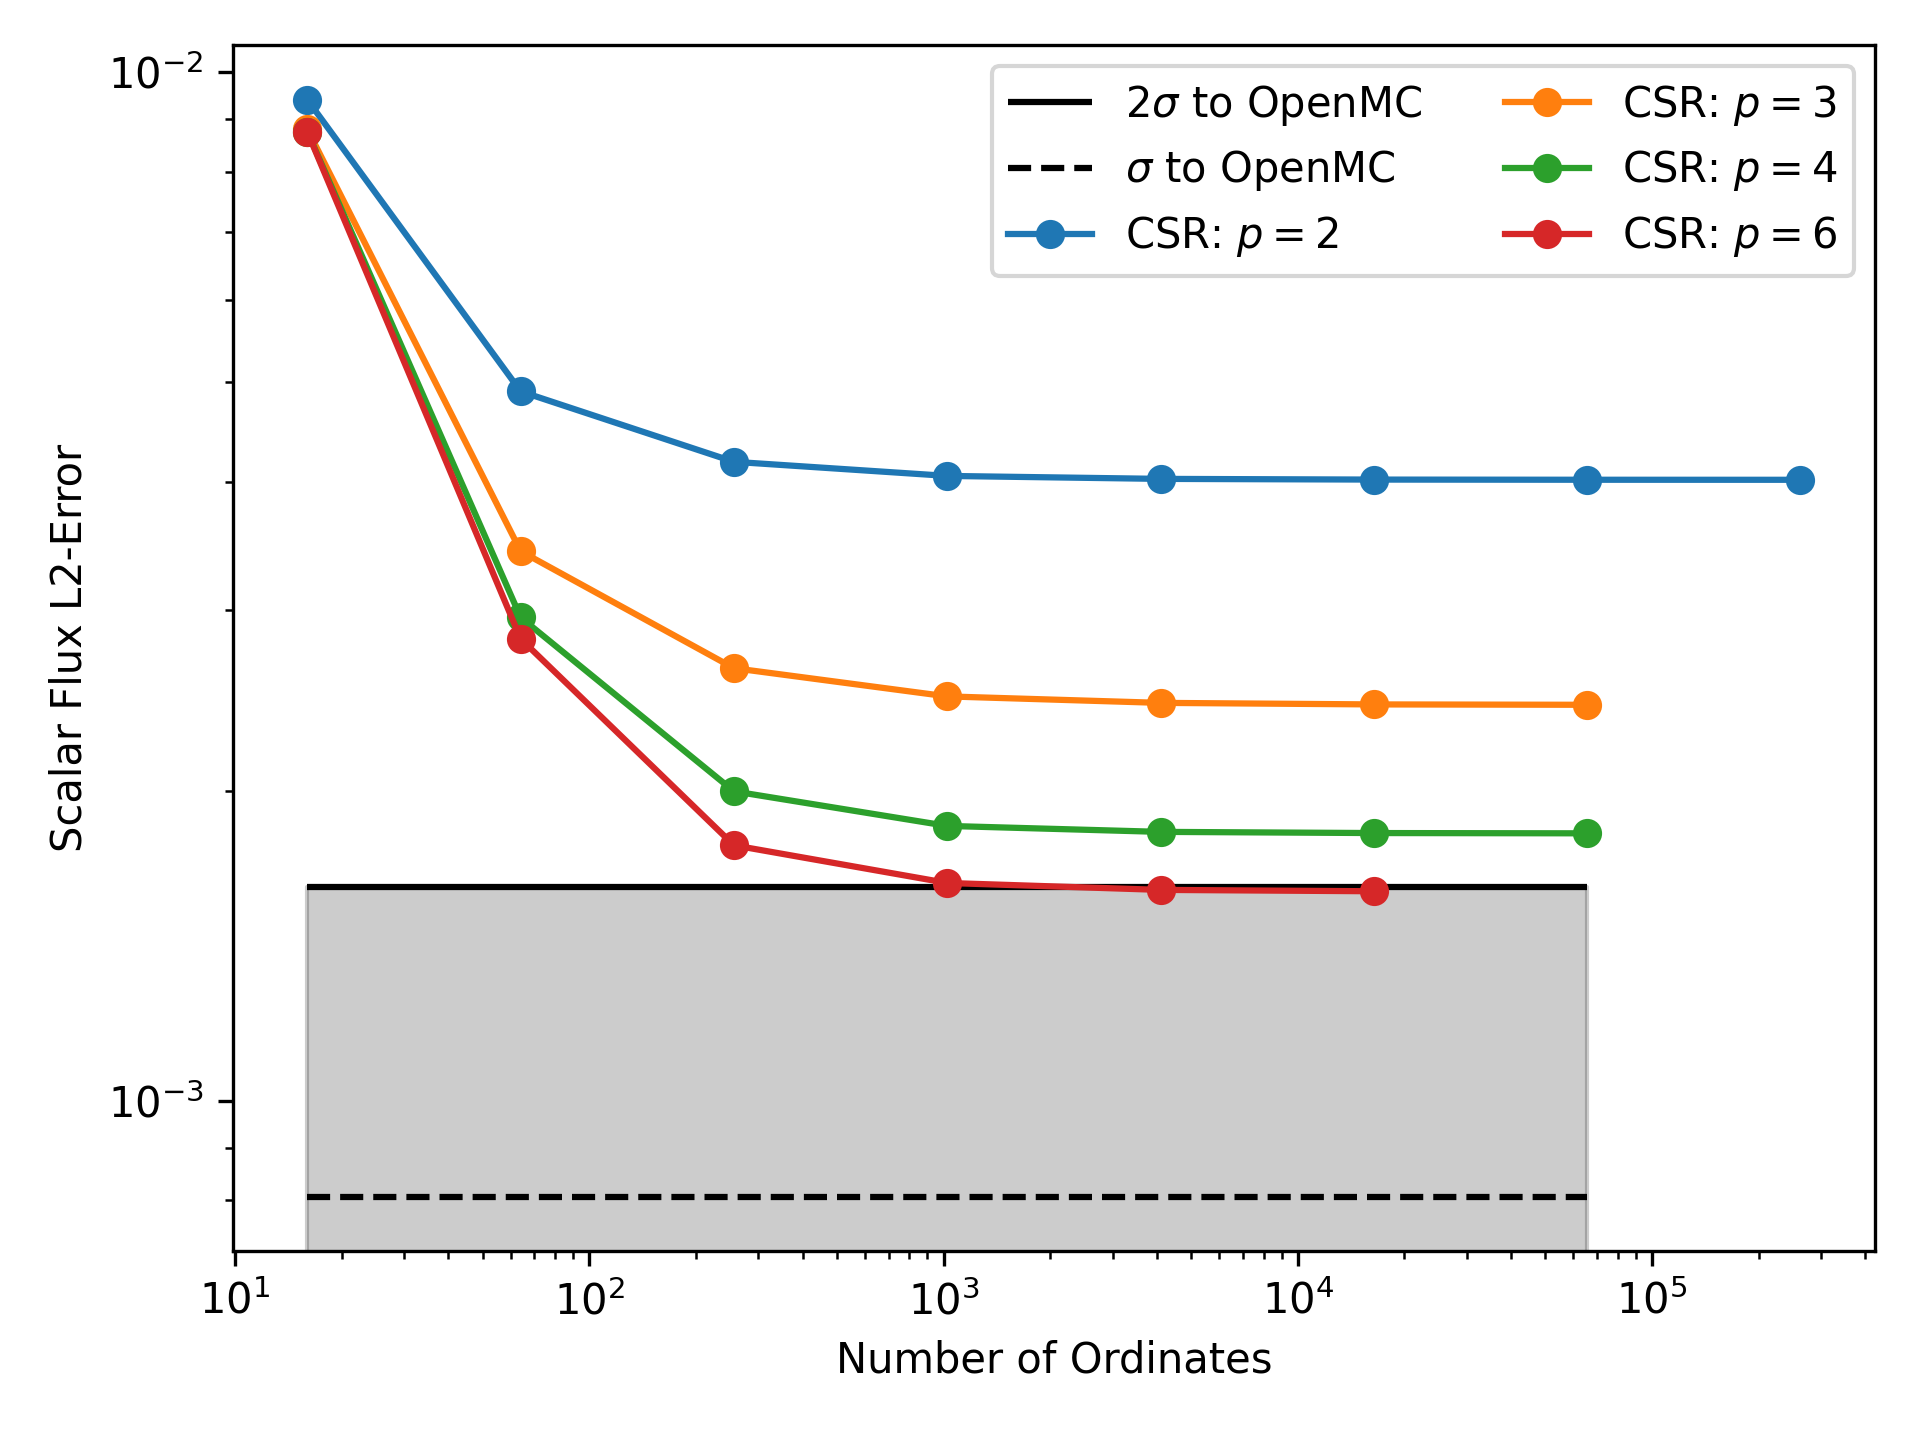
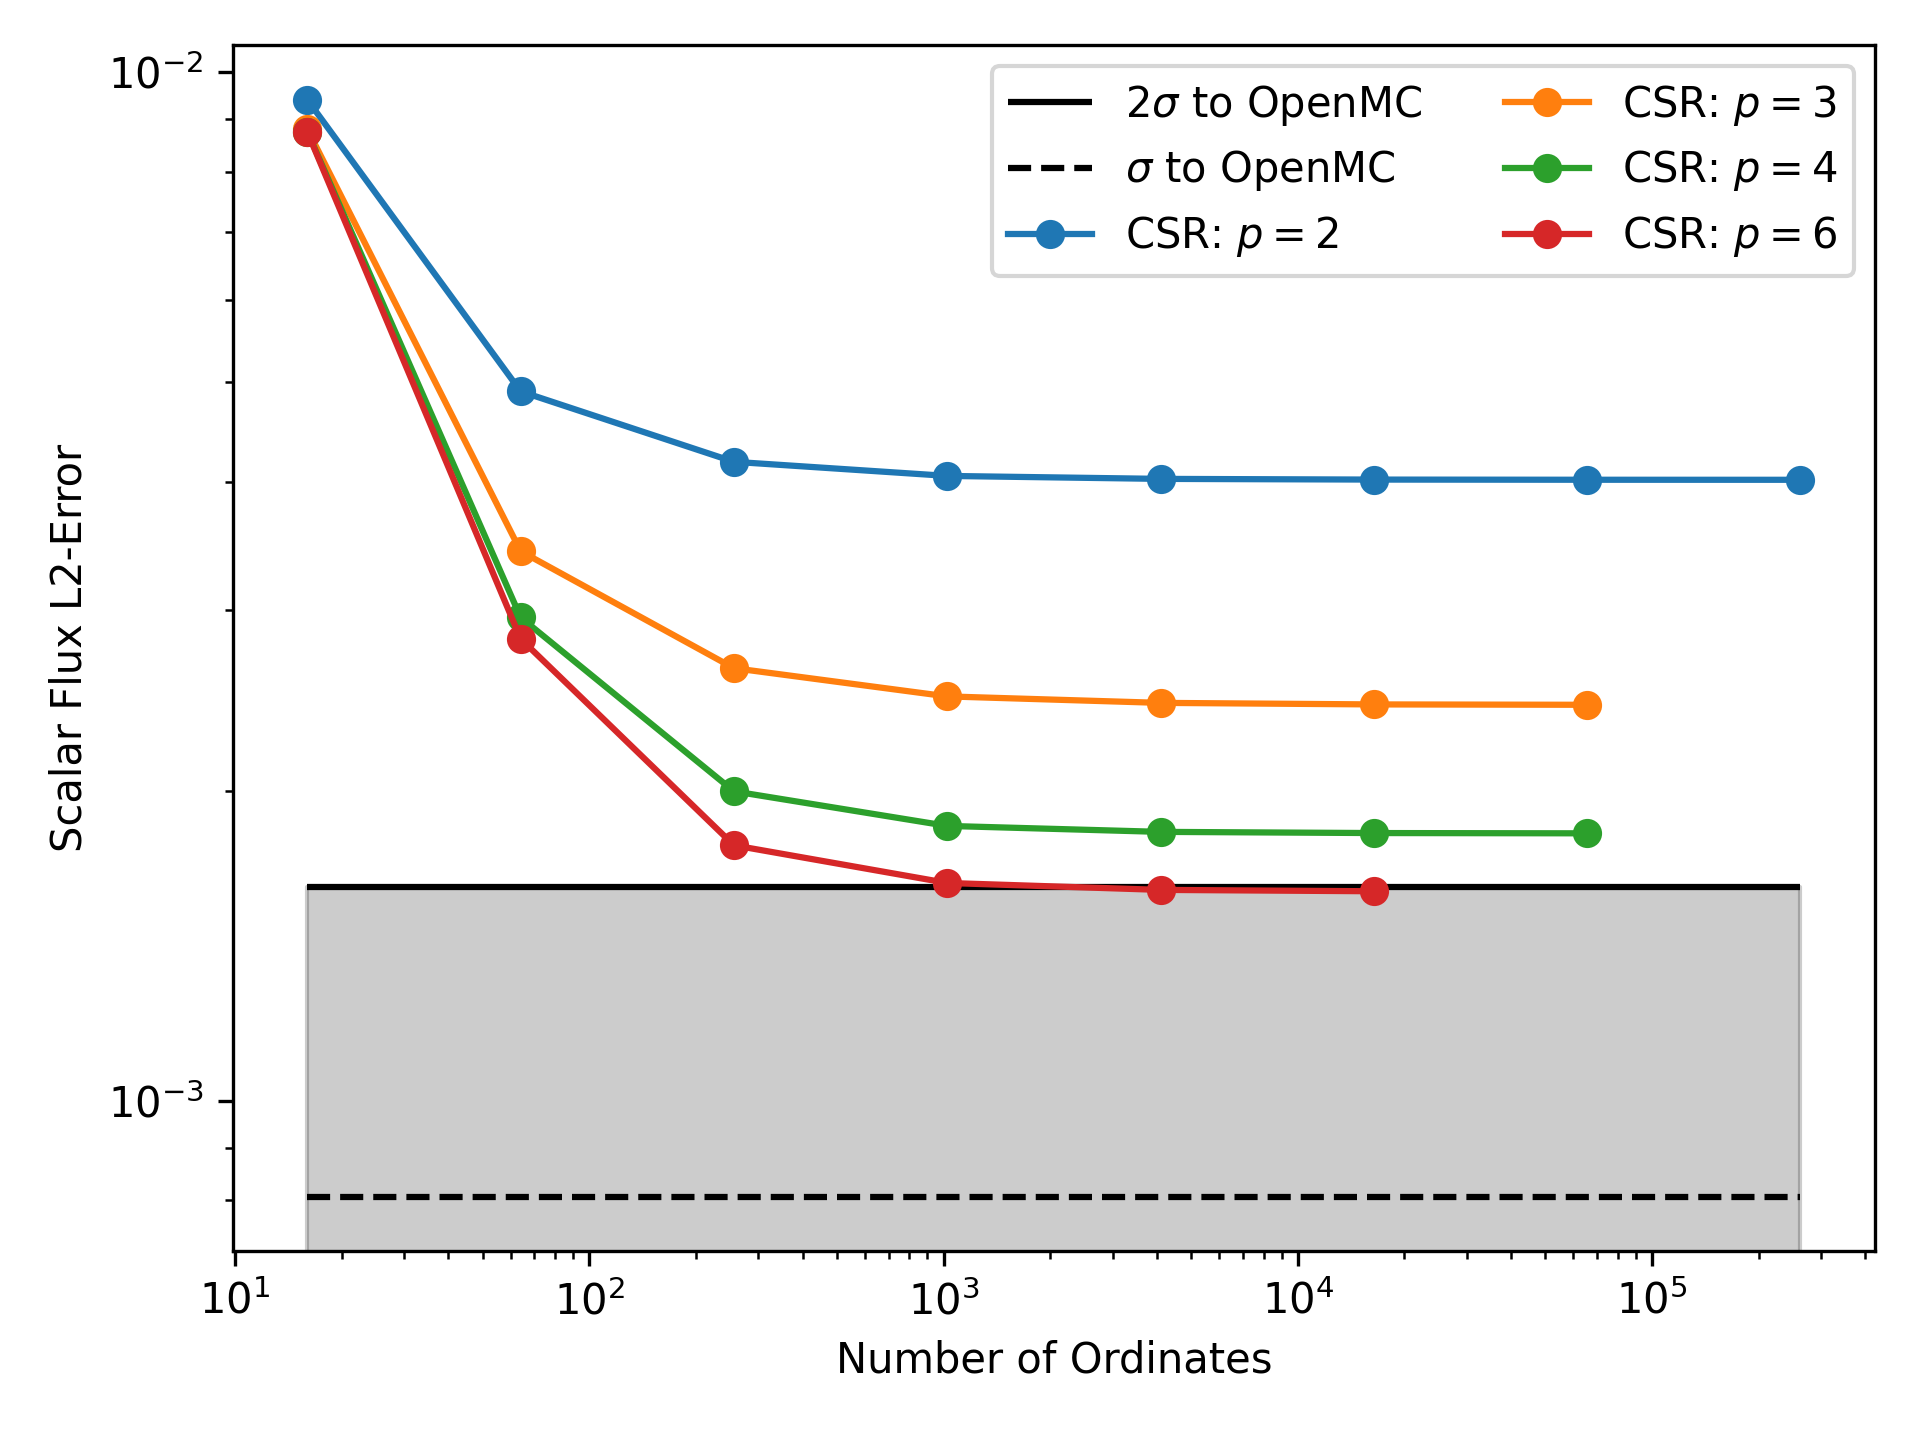
minor fix to square results

Changed region(s): [[0.8125, 0.5938, 0.9375, 0.875]]

diff --git a/fixed_source/square/plotting.py b/fixed_source/square/plotting.py
@@ -45,7 +45,7 @@ if __name__ == "__main__":
     phi_mc = np.load("../openmc/square/mesh_flux.npy")
     phi_mc_stdev = np.load("../openmc/square/mesh_stdev.npy")
 
-    num_ordinates = [16, 64, 256, 1024, 4096, 16384, 65536]
+    num_ordinates = [16, 64, 256, 1024, 4096, 16384, 65536, 262144]
     degrees = [2, 3, 4, 6]
     eps = [1e-8, 1e-5, 1e-3]
 
